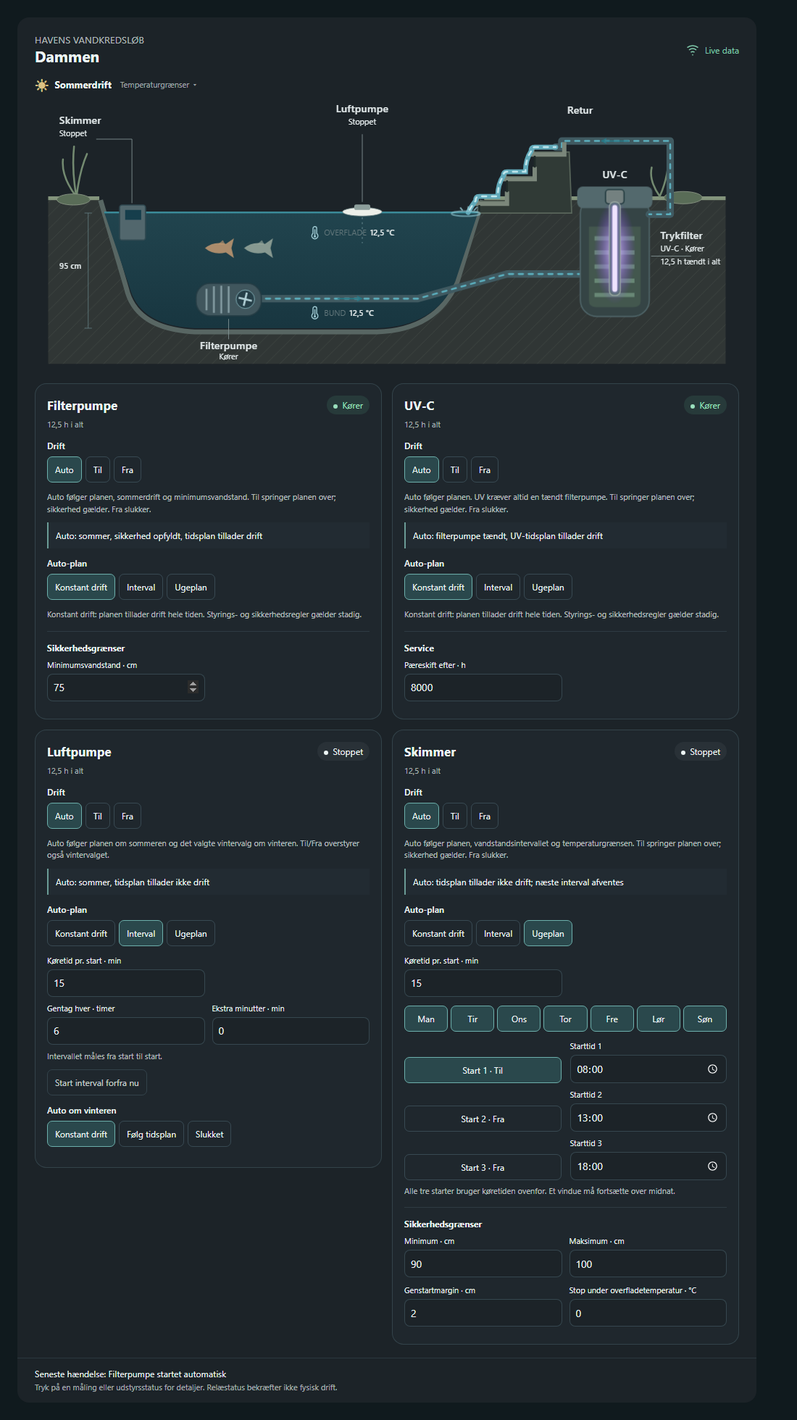
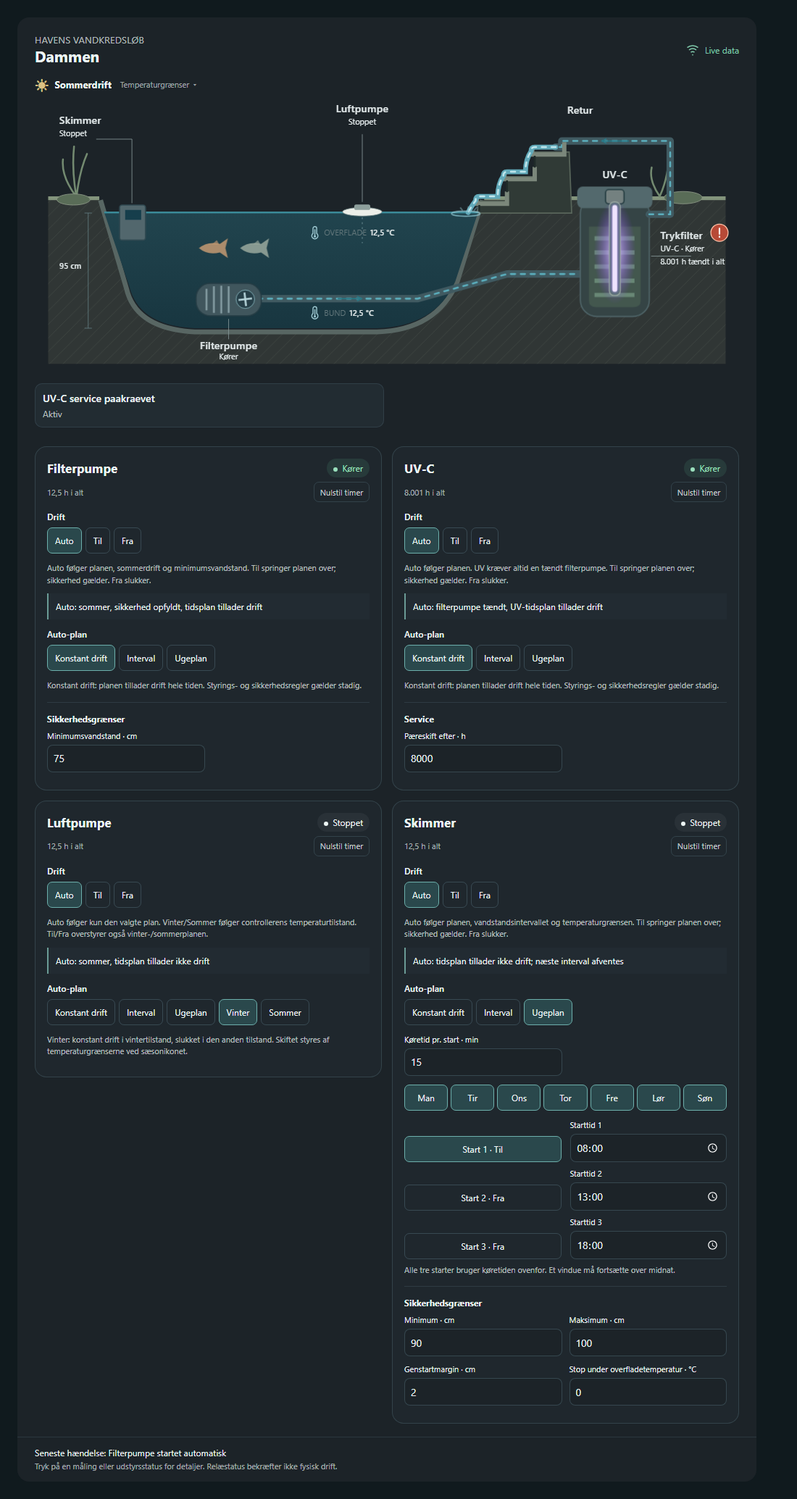
Add timer resets, seasonal air plans and device alarm badges

diff --git a/pond-flow-card.js b/pond-flow-card.js
@@ -15,7 +15,7 @@ function patchNode(current, next) {
   }
   if (current.nodeType === Node.ELEMENT_NODE) {
     for (const attr of [...current.attributes]) {
-      if (!next.hasAttribute(attr.name) && !(current.localName === 'details' && attr.name === 'open')) current.removeAttribute(attr.name);
+      if (!next.hasAttribute(attr.name) && !(['details','dialog'].includes(current.localName) && attr.name === 'open')) current.removeAttribute(attr.name);
     }
     for (const attr of next.attributes) {
       if (current.getAttribute(attr.name) !== attr.value) current.setAttribute(attr.name, attr.value);
@@ -200,8 +200,8 @@ class PondFlowCard extends HTMLElement {
   choiceButtons(key, caption) {
     const state=this.state(key),demo=this.config.demo===true;
     const isMode=key.endsWith('_mode');
-    const options=state?.attributes.options || (demo ? isMode ? ['Auto','Til','Fra'] : ['Konstant drift','Gentag med interval','Ugeplan'] : []);
-    const selected=state?.state || (demo ? isMode ? 'Auto' : key==='skimmer_plan' || key==='aerator_plan' ? 'Gentag med interval' : 'Konstant drift' : '');
+    const options=state?.attributes.options || (demo ? isMode ? ['Auto','Til','Fra'] : key==='aerator_plan' ? ['Konstant drift','Gentag med interval','Ugeplan','Vinter','Sommer'] : ['Konstant drift','Gentag med interval','Ugeplan'] : []);
+    const selected=state?.state || (demo ? isMode ? 'Auto' : key==='skimmer_plan' ? 'Gentag med interval' : key==='aerator_plan' ? 'Vinter' : 'Konstant drift' : '');
     const display=option=>({'Uden tidsplan':'Konstant drift','Gentag med interval':'Interval','Interval':'Interval','Til':'Til','Fra':'Fra'}[option] || option);
     return `<div class="choice"><span class="field-title">${esc(caption)}</span><div class="options">${options.map(option=>`<button type="button" data-key="${key}" data-option="${esc(option)}" aria-pressed="${selected===option}" ${demo || !this.usable(state) ? 'disabled' : ''}>${esc(display(option))}</button>`).join('') || '<small class="missing">Ikke tilgængelig på controlleren</small>'}</div></div>`;
   }
@@ -209,23 +209,26 @@ class PondFlowCard extends HTMLElement {
     const {id,name,key}=unit,demo=this.config.demo===true;
     const running=this.state(key+'_running');
     const status=demo ? id==='aer'?'Stoppet':'Kører' : !this.usable(running) ? 'Ukendt' : running.state==='on' ? 'Kører':'Stoppet';
-    const planKey=key+'_plan',plan=this.state(planKey)?.state || (demo ? ['skimmer','aer'].includes(id)?'Gentag med interval':'Konstant drift' : '');
+    const planKey=key+'_plan',plan=this.state(planKey)?.state || (demo ? id==='skimmer'?'Gentag med interval':id==='aer'?'Vinter':'Konstant drift' : '');
     const interval=['Gentag med interval','Interval'].includes(plan),week=plan==='Ugeplan';
     const number=(suffix,title,sample,unit='')=>this.inputField('number',`${name} tidsplan - ${suffix}`,title,`${id}_${slug(suffix)}`,sample,unit);
     const reason=this.named('sensor',`${name} aktuel styring`,id+'_reason').state;
     const hours=this.state(key+'_hours');
     const caption=demo?'2,5 h':this.usable(hours)?this.value(key+'_hours'):'—';
     const airWinter=this.named('select','Luftpumpe Auto - vinterstyring','aer_winter_policy');
-    const help=id==='pump'?'Auto følger planen, sommerdrift og minimumsvandstand.':id==='skimmer'?'Auto følger planen, vandstandsintervallet og temperaturgrænsen.':id==='uv'?'Auto følger planen. UV kræver altid en tændt filterpumpe.':'Auto følger planen om sommeren og det valgte vintervalg om vinteren.';
+    const reset=this.named('button',`Nulstil ${name} driftstimer`,id+'_reset_hours');
+    const help=id==='pump'?'Auto følger planen, sommerdrift og minimumsvandstand.':id==='skimmer'?'Auto følger planen, vandstandsintervallet og temperaturgrænsen.':id==='uv'?'Auto følger planen. UV kræver altid en tændt filterpumpe.':(this.state('aerator_plan')?.attributes.options?.includes('Vinter')?'Auto følger kun den valgte plan. Vinter/Sommer følger controllerens temperaturtilstand.':'Vinter-/sommerplan kræver ny controller-YAML; den tidligere vinterstyring vises nedenfor.');
     let safety='';
     if(id==='pump') safety=this.inputField('number','Filterpumpe stop under vandstand','Minimumsvandstand','critical_level',75,'cm');
     if(id==='skimmer') safety=this.inputField('number','Skimmer minimum vandstand','Minimum','skimmer_min',90,'cm')+this.inputField('number','Skimmer maksimum vandstand','Maksimum','skimmer_max',100,'cm')+this.inputField('number','Skimmer genstartmargin inden for vandstandsinterval','Genstartmargin','skimmer_margin',2,'cm')+this.inputField('number','Skimmer stop under overfladetemperatur','Stop under overfladetemperatur','skimmer_temp',0,'°C');
     if(id==='uv') safety=this.inputField('number','UV-C servicegraense','Pæreskift efter','uv_service_hours',8000,'h');
-    return `<section class="unit" data-section="unit-${id}" aria-label="${name} opsætning"><div class="unit-heading"><h3>${name}</h3><span class="run-state ${status==='Kører'?'on':''}">${status}</span></div><small class="runtime" data-info="${key}_hours">${esc(caption)} i alt</small>
-      ${this.choiceButtons(key+'_mode','Drift')}<p class="unit-help">${help} ${id==='aer'?'Til/Fra overstyrer også vintervalget.':'Til springer planen over; sikkerhed gælder. Fra slukker.'}</p>
+    return `<section class="unit" data-section="unit-${id}" aria-label="${name} opsætning"><div class="unit-heading"><h3>${name}</h3><span class="run-state ${status==='Kører'?'on':''}">${status}</span></div><div class="runtime-row"><small class="runtime" data-info="${key}_hours">${esc(caption)} i alt</small><button type="button" class="reset-hours" data-reset-hours="${esc(reset.id)}" data-unit-name="${name}" ${demo || !this.buttonUsable(reset.state)?'disabled':''}>Nulstil timer</button></div>
+      ${this.choiceButtons(key+'_mode','Drift')}<p class="unit-help">${help} ${id==='aer'?'Til/Fra overstyrer også vinter-/sommerplanen.':'Til springer planen over; sikkerhed gælder. Fra slukker.'}</p>
       ${reason ? `<p class="decision" data-entity="${esc(this.named('sensor',`${name} aktuel styring`,id+'_reason').id)}">${esc(reason.state)}</p>`:''}
       ${this.choiceButtons(planKey,'Auto-plan')}
-      ${plan && !interval && !week ? '<p class="plan-note">Konstant drift: planen tillader drift hele tiden. Styrings- og sikkerhedsregler gælder stadig.</p>':''}
+      ${id==='aer' && !this.state('aerator_plan')?.attributes.options?.includes('Vinter') && airWinter.state ? `<div class="choice legacy-winter"><span class="field-title">Tidligere vinterstyring</span><div class="options">${airWinter.state.attributes.options.map(option=>`<button type="button" data-direct-select="${esc(airWinter.id)}" data-value="${esc(option)}" aria-pressed="${option===airWinter.state.state}" ${!this.usable(airWinter.state)?'disabled':''}>${esc(option==='Foelg tidsplan'?'Følg tidsplan':option)}</button>`).join('')}</div><p class="plan-note">Upload den nye YAML for at få Vinter/Sommer direkte som Auto-plan.</p></div>`:''}
+      ${['Konstant drift','Uden tidsplan'].includes(plan) ? '<p class="plan-note">Konstant drift: planen tillader drift hele tiden. Styrings- og sikkerhedsregler gælder stadig.</p>':''}
+      ${['Vinter','Sommer'].includes(plan) ? `<p class="plan-note">${plan}: konstant drift i ${plan==='Vinter'?'vintertilstand':'sommertilstand'}, slukket i den anden tilstand. Skiftet styres af temperaturgrænserne ved sæsonikonet.</p>`:''}
       ${interval || week ? `<div class="fields">${number('Koeretid pr start','Køretid pr. start',15,'min')}</div>`:''}
       ${interval ? `<div class="fields">${number('Gentag hver - timer','Gentag hver',6,'timer')}${number('Gentag hver - ekstra minutter','Ekstra minutter',0,'min')}</div><p class="plan-note">Intervallet måles fra start til start.</p><button type="button" class="subtle" data-press="${esc(this.named('button',`${name} interval - start forfra nu`).id)}" ${demo || !this.buttonUsable(this.named('button',`${name} interval - start forfra nu`).state)?'disabled':''}>Start interval forfra nu</button>`:''}
       ${week ? `<div class="weekdays" aria-label="${name} ugedage">${[['Mandag','Man'],['Tirsdag','Tir'],['Onsdag','Ons'],['Torsdag','Tor'],['Fredag','Fre'],['Loerdag','Lør'],['Soendag','Søn']].map(([day,label])=>{
@@ -235,9 +238,25 @@ class PondFlowCard extends HTMLElement {
         const enabled=this.named('switch',`${name} ugeplan - start ${i} aktiv`);
         return `<div class="slot"><button type="button" data-switch="${esc(enabled.id)}" aria-pressed="${demo?i===1:enabled.state?.state==='on'}" ${demo || !this.usable(enabled.state)?'disabled':''}>Start ${i} · ${demo?i===1?'Til':'Fra':enabled.state?.state==='on'?'Til':'Fra'}</button>${this.inputField('text',`${name} ugeplan - start ${i} HH:MM`,`Starttid ${i}`,`${id}_start${i}`,['08:00','13:00','18:00'][i-1],'','time')}</div>`;
       }).join('')}</div><p class="plan-note">Alle tre starter bruger køretiden ovenfor. Et vindue må fortsætte over midnat.</p>`:''}
-      ${id==='aer' ? `<div class="choice"><span class="field-title">Auto om vinteren</span><div class="options">${(airWinter.state?.attributes.options || (demo?['Konstant drift','Foelg tidsplan','Slukket']:[])).map(option=>`<button type="button" data-direct-select="${esc(airWinter.id)}" data-value="${esc(option)}" aria-pressed="${option===(airWinter.state?.state || 'Konstant drift')}" ${demo || !this.usable(airWinter.state)?'disabled':''}>${esc(option==='Foelg tidsplan'?'Følg tidsplan':option)}</button>`).join('') || '<small>Vintervalget er ikke tilgængeligt på controlleren.</small>'}</div></div>`:''}
       ${safety?`<div class="safety"><h4>${id==='uv'?'Service':'Sikkerhedsgrænser'}</h4><div class="fields">${safety}</div></div>`:''}
     </section>`;
+  }
+  unitAlarms(id) {
+    // Shared alarms are identified as shared; they do not prove device failure.
+    const keys={pump:['low_water','level_fault','temp_fault','relay_fault','settings_fault','schedule_fault'],uv:['uv_service','low_water','level_fault','temp_fault','relay_fault','settings_fault','schedule_fault'],skimmer:['skimmer_locked','level_fault','temp_fault','relay_fault','settings_fault','schedule_fault'],aer:['temp_fault','relay_fault','settings_fault','schedule_fault']}[id] || [];
+    return keys.filter(key=>this.state(key)?.state==='on').map(key=>({key,label:labels[key]+(['temp_fault','relay_fault','settings_fault','schedule_fault'].includes(key)?' (fælles controlleralarm)':'')}));
+  }
+  alarmBadge(id,x,y) {
+    const alarms=this.unitAlarms(id);
+    if(!alarms.length) return '';
+    const name={pump:'Filterpumpe',uv:'UV-C',aer:'Luftpumpe',skimmer:'Skimmer'}[id];
+    return `<g class="diagram-alarm" data-alarm-unit="${id}" data-section="alarm-${id}" role="button" tabindex="0" aria-label="${name}: ${alarms.length} alarm${alarms.length>1?'er':''}. Klik for besked" transform="translate(${x} ${y})"><title>${name}: ${alarms.map(a=>esc(a.label)).join('; ')}</title><circle r="14"/><path d="M0 -7V2M0 6V7"/></g>`;
+  }
+  alarmDialog() {
+    const name={pump:'Filterpumpe',uv:'UV-C',aer:'Luftpumpe',skimmer:'Skimmer'}[this.alarmUnit] || 'Alarmer';
+    const alarms=this.unitAlarms(this.alarmUnit);
+    const service=this.state('uv_hours'),limit=this.named('number','UV-C servicegraense','uv_service_hours').state;
+    return `<dialog class="alarm-dialog" data-section="alarm-dialog" aria-label="${name} alarmer"><h3>${name}</h3>${alarms.length?`<ul>${alarms.map(a=>`<li>${esc(a.label)}${a.key==='uv_service' && this.usable(service)?`<p>UV har kørt ${esc(this.value('uv_hours'))}${this.usable(limit)?' og servicegrænsen er '+esc(limit.state)+' timer':''}. Kontrollér pæren. Efter udskiftning kan UV-timerne nulstilles i UV-området.</p>`:''}</li>`).join('')}</ul>`:'<p>Ingen aktuelle alarmer.</p>'}<p class="note">Fælles controlleralarmer vises ved relevante enheder. Ikonet er ikke en måling af fysisk udstyrssvigt.</p><button type="button" data-close-alarm>Luk</button></dialog>`;
   }
   climatePanel() {
     const demo=this.config.demo===true;
@@ -324,6 +343,7 @@ class PondFlowCard extends HTMLElement {
       .units{gap:14px;align-items:start;padding-top:8px;grid-template-columns:repeat(2,minmax(0,1fr))}.unit{border:1px solid #7196a540;background:#7396a40b;border-radius:16px;padding:16px;min-width:0}.unit-heading{display:flex;align-items:center;justify-content:space-between;gap:8px}.unit h3{font-size:17px;margin:0}.run-state{font-size:12px;white-space:nowrap;background:#87999b18;border-radius:20px;padding:5px 9px}.run-state.on{color:#9ae0bd;background:#4a927630}.run-state:before{content:'';display:inline-block;width:6px;height:6px;border-radius:50%;background:currentColor;margin-right:6px}.runtime{display:block;margin:6px 0 14px;font-size:11px;opacity:.65}.choice{margin:12px 0}.field-title{display:block;font-size:12px;font-weight:600;margin-bottom:7px}.units .options{justify-content:flex-start;gap:5px}.units button{font:inherit;font-size:12px;padding:8px 10px;min-height:36px}.units button[aria-pressed=true]{background:#438b8b55;border-color:#6db0ac}.units button:disabled,.field input:disabled{opacity:.45;cursor:default}.unit-help,.plan-note{font-size:11px;line-height:1.5;opacity:.72;margin:7px 0 10px}.decision{font-size:12px;line-height:1.5;padding:9px 10px;border-left:2px solid #6b9c96;background:#7396a40b;margin:10px 0}
       .fields{display:grid;grid-template-columns:repeat(2,minmax(0,1fr));gap:10px;margin:8px 0}.field{display:flex;flex-direction:column;gap:5px;min-width:0;font-size:11px}.field input{box-sizing:border-box;width:100%;min-width:0;max-width:100%;border:1px solid #7196a550;border-radius:8px;background:var(--card-background-color,#1c2328);color:inherit;font:inherit;font-size:14px;min-height:38px;padding:8px;color-scheme:dark}.field input:focus-visible,button:focus-visible,summary:focus-visible{outline:2px solid #7ecac2;outline-offset:2px}.missing{font-size:10px;opacity:.65}.weekdays{display:flex;gap:4px;flex-wrap:wrap;margin:12px 0}.weekdays button{flex:1;min-width:32px;padding:7px 4px}.slots{display:grid;gap:8px}.slot{display:grid;grid-template-columns:minmax(90px,1fr) minmax(0,1fr);gap:12px;align-items:end}.slot>.field{margin:0}.safety{border-top:1px solid #7196a530;margin-top:14px;padding-top:2px}.safety h4{font-size:12px;margin:12px 0 8px}.subtle{opacity:.8}
       @container(max-width:740px){.units{grid-template-columns:1fr}.season-panel{margin:0 14px}.unit{padding:14px}.fields{gap:8px}}@container(max-width:350px){.season-edit{display:none}.connection-label{max-width:120px}.fields{grid-template-columns:1fr}}
+      .runtime-row{display:flex;align-items:center;justify-content:space-between;gap:8px;margin:6px 0 12px}.runtime-row .runtime{margin:0}.units .reset-hours{font-size:11px;min-height:28px;padding:4px 8px;opacity:.8}.diagram-alarm{cursor:pointer}.diagram-alarm circle{fill:#b74a37;stroke:#ffc4aa;stroke-width:1.5}.diagram-alarm path{fill:none;stroke:white;stroke-width:2.5;stroke-linecap:round}.diagram-alarm:focus-visible circle{stroke:white;stroke-width:3}.alarm-dialog{max-width:min(440px,calc(100vw - 50px));box-sizing:border-box;padding:22px;border:1px solid #7196a570;border-radius:16px;background:var(--ha-card-background,#1c2328);color:var(--primary-text-color,#edf6f5);font:inherit}.alarm-dialog::backdrop{background:#0008}.alarm-dialog li{margin:12px 0;font-size:14px;line-height:1.5}.alarm-dialog li p{font-size:13px;opacity:.85}.alarm-dialog button{padding:9px 20px;border:1px solid #7196a570;border-radius:8px;background:transparent;color:inherit;font:inherit;cursor:pointer}
     </style>
     <ha-card>
       <header data-section="header"><div><small>HAVENS VANDKREDSLØB</small><h2>${esc(this.config.title || 'Dammen')}</h2></div><span class="connection" data-connection role="status"><svg viewBox="0 0 24 24" aria-hidden="true"><path d="M3 8a14 14 0 0 1 18 0M6 12a9 9 0 0 1 12 0M9 16a4 4 0 0 1 6 0"/><circle cx="12" cy="20" r="1"/></svg><span class="connection-label"></span></span></header>
@@ -407,13 +427,23 @@ class PondFlowCard extends HTMLElement {
 <path d="M115 363V${550+depth}M109 363H121M109 ${550+depth}H121" fill="none" stroke="#627d82"/><text x="104" y="453" data-info="water_level" text-anchor="end" font-size="16" font-weight="600">${val('water_level','48 cm')}</text>
 <path class="leader" d="M343 ${535+depth}V${568+depth}"/><text x="343" y="${584+depth}" text-anchor="middle" class="label">Filterpumpe</text><text x="343" y="${601+depth}" data-info="pump_running" text-anchor="middle" class="small">${esc(operating('pump_running'))}</text>
 
+${this.alarmBadge('skimmer',225,220)}${this.alarmBadge('aer',640,200)}${this.alarmBadge('pump',445,584+depth)}${this.alarmBadge('uv',1140,395)}
 </svg>
       ${[...binaryKeys].some(key => this.state(key) && this.state(key).state !== 'off') ? `<div class="equipment alarms" data-section="alarms" role="status">${[...binaryKeys].filter(key => this.state(key) && this.state(key).state !== 'off').map(key => `<button data-info="${key}" class="error"><strong>${esc(labels[key])}</strong><small>${['unknown','unavailable'].includes(this.state(key).state) ? 'Status utilgængelig' : 'Aktiv'}</small></button>`).join('')}</div>` : ''}
       <div class="controls units" data-section="controls">${[{id:'pump',name:'Filterpumpe',key:'pump'},{id:'uv',name:'UV-C',key:'uv'},{id:'aer',name:'Luftpumpe',key:'aerator'},{id:'skimmer',name:'Skimmer',key:'skimmer'}].map(unit=>this.unitPanel(unit)).join('')}</div>
       <div class="status" data-section="status">Seneste hændelse: ${val('last_event','Filterpumpe startet automatisk')}<br><span class="note">${demo ? 'Demo betjener ikke dit udstyr.' : 'Tryk på en måling eller udstyrsstatus for detaljer. Relæstatus bekræfter ikke fysisk drift.'}</span>${this.error ? `<div class="error" role="alert">${esc(this.error)}</div>` : ''}</div>
+      ${this.alarmDialog()}
     </ha-card>`;
     patchNode(this.shadowRoot,template.content);
     this.updateConnectionIndicator();
+    this.shadowRoot.querySelectorAll('[data-reset-hours]').forEach(button=>{button.onclick=()=>{if(!this.config.demo && window.confirm(`Nulstil driftstimer for ${button.dataset.unitName}? Den nuværende tæller slettes.`)) this.sendEntity(button.dataset.resetHours,'button');};});
+    this.shadowRoot.querySelectorAll('[data-alarm-unit]').forEach(button=>{
+      const open=()=>{this.alarmUnit=button.dataset.alarmUnit;this.render();this.shadowRoot.querySelector('.alarm-dialog').showModal();};
+      button.onclick=open;button.onkeydown=event=>{if(['Enter',' '].includes(event.key)){event.preventDefault();open();}};
+    });
+    const alarmDialog=this.shadowRoot.querySelector('.alarm-dialog');
+    this.shadowRoot.querySelector('[data-close-alarm]').onclick=()=>alarmDialog.close();
+    alarmDialog.onclose=()=>{this.alarmUnit=null;};
     this.shadowRoot.querySelectorAll('[data-control]').forEach(input=>{
       const state=this._hass?.states[input.dataset.control];
       if(!demo && this.usable(state) && !input._editing) input.value=state.state;

diff --git a/scripts/test-controller-rules.py b/scripts/test-controller-rules.py
@@ -23,13 +23,13 @@ def expression(name, **values):
     return bool(eval(text,{'__builtins__':{}},values))
 
 class ControllerRules(unittest.TestCase):
-    def test_air_winter_policy_and_manual_modes(self):
-        for winter,policy,scheduled,mode in itertools.product([False,True],range(3),[False,True],range(3)):
-            with self.subTest(winter=winter,policy=policy,scheduled=scheduled,mode=mode):
-                auto=expression('aer_auto',winter=winter,winter_policy=policy,aer_scheduled=scheduled)
-                result=expression('aer',am=mode,aer_auto=auto)
-                expected=(mode==1) or (mode==0 and (scheduled if not winter or policy==1 else policy==0))
-                self.assertEqual(result,expected)
+    def test_air_season_plans_and_manual_modes(self):
+        for winter,plan,window,mode in itertools.product([False,True],range(5),[False,True],range(3)):
+            scheduled=(winter if plan==3 else not winter if plan==4 else True if plan==0 else window)
+            auto=expression('aer_auto',aer_scheduled=scheduled)
+            result=expression('aer',am=mode,aer_auto=auto)
+            self.assertEqual(result,mode==1 or (mode==0 and scheduled))
+        self.assertIn('const bool allowed=plan==3 ? winter : !winter;',SOURCE)
     def test_filter_manual_on_never_bypasses_safety(self):
         for safe,mode,scheduled in itertools.product([False,True],range(3),[False,True]):
             result=expression('pump',safe=safe,pm=mode,pump_scheduled=scheduled)
@@ -52,12 +52,15 @@ class ControllerRules(unittest.TestCase):
                 block=re.search(r'    id: '+prefix+'_'+suffix+r'\n(.*?)(?=  - platform:|\Z)',SOURCE,re.S).group(1)
                 self.assertRegex(block,r'initial_value: '+value+r'\n')
             block=re.search(r'    id: '+prefix+r'_schedule\n(.*?)(?=  - platform:|\Z)',SOURCE,re.S).group(1)
-            self.assertIn('initial_option: "Gentag med interval"',block)
+            self.assertIn('initial_option: "'+('Gentag med interval' if prefix=='skimmer' else 'Vinter')+'"',block)
         for prefix in ['pump','skimmer','aer','uv']:
             self.assertIn(prefix+'_control_reason',ids)
             self.assertIn(prefix+'_auto_rule',ids)
         self.assertIn('sensor_timeout_seconds',ids)
-        self.assertIn('am==0 && (!winter || winter_policy==1)',SOURCE)
+        self.assertIn('id(aer_schedule)), am==0,',SOURCE)
+        self.assertNotIn('winter_policy',SOURCE)
+        self.assertIn('initial_option: "Vinter"',SOURCE)
+        self.assertNotIn('aer_season_policy',SOURCE)
         self.assertNotIn('level_margin',SOURCE)
         for line in SOURCE.splitlines():
             if re.match(r'\s*(key|password):',line):

diff --git a/esphome/FLOWS.md b/esphome/FLOWS.md
@@ -23,11 +23,19 @@ I Auto følger UV filterpumpen, eventuelt begrænset af UV's egen tidsplan. Kons
 
 ## Luftpumpe
 
-I Auto følger luftpumpen sin egen tidsplan om sommeren. Om vinteren følger den det synlige valg **Luftpumpe Auto - vinterstyring**: **Konstant drift** (standard), **Foelg tidsplan** eller **Slukket**. Den er ikke længere direkte koblet til filterpumpens stop/start.
+Auto følger udelukkende den valgte Auto-plan. Der er ikke længere et separat vintervalg eller en skjult vinteroverstyring.
 
-Det betyder eksempelvis, at lav vandstand eller manuelt filterstop om sommeren ikke i sig selv starter luftpumpen. Ved **Konstant drift** bruges tidsplanen kun om sommeren. Ved **Foelg tidsplan** bruges samme tidsplan i begge temperaturtilstande. Ved **Slukket** er Auto-vinterdrift slået fra. Manuel Til/Fra tilsidesætter vintervalget.
+| Auto-plan | Virkning |
+|---|---|
+| Konstant drift | Tilladt hele året, både sommer og vinter |
+| Gentag med interval | Følg køretid og startinterval hele året |
+| Ugeplan | Følg valgte dage, starter og køretid hele året |
+| Vinter | Konstant drift i vintertilstand, slukket i sommertilstand |
+| Sommer | Konstant drift i sommertilstand, slukket i vintertilstand |
 
-Standardens sommertidsplan er 15 minutter hver 6. time. Dette er en redigerbar eksempelplan, ikke en beregning af dammens iltbehov.
+Vinter/Sommer refererer til controllerens temperaturtilstand, ikke kalenderen. Til/Fra overstyrer planen. Vandstand eller filterstop starter ikke selv luftpumpen.
+
+Ved ny installation er luftpumpens plan Vinter. Gemte tidligere planvalg kan overleve firmwareopdatering. Efter opdatering skal du vælge **Auto → Vinter**, hvis pumpen kun skal køre om vinteren. Dens tidligere intervalfelter er bevaret, men har ingen virkning i Vinter-/Sommer-planen.
 
 ## Skimmer og dens egen genstartmargin
 
@@ -63,7 +71,7 @@ Eksempel: Gentag hver = 6 timer og 0 ekstra minutter, køretid = 15 minutter bet
 
 I ugeplan er start 1 aktiv som standard; start 2 og 3 er slået fra. Alle ugedage er valgt. Standardtiderne er 08:00, 13:00 og 18:00. Starter kan overlappe og giver så sammenhængende drift. Et vindue over midnat tilhører dagen, hvor det starter. Ved sommertidsskift følger planen lokalt klokkeslæt, så et sprunget tidspunkt springes over, og et gentaget tidspunkt kan give gentagen drift.
 
-Standard: Filterpumpe og UV Konstant drift; skimmer og luft Gentag med interval. Ugeplansfelter har ingen effekt, når interval er valgt, og intervalfelter har ingen effekt, når ugeplan er valgt. Luftpumpen ignorerer kun tidsplanen i Auto-vinterdrift, når vinterstyringen er Konstant drift eller Slukket. Ved Foelg tidsplan gælder den også om vinteren.
+Standard: Filterpumpe og UV Konstant drift; skimmer Gentag med interval; luft Vinter. Ugeplansfelter har ingen effekt, når interval er valgt, og intervalfelter har ingen effekt, når ugeplan er valgt. Luftpumpen følger altid sit valgte planvalg, inklusive Vinter/Sommer som sæsonplaner.
 
 ## Auto / Til / Fra
 
@@ -88,7 +96,7 @@ Styringen kører hvert 5. sekund efter 15 sekunders opstart. Niveaumålingen fil
 
 Automatik, sikkerhedsregler, timetællere og intervalplaner kører uden Wi-Fi, Home Assistant eller internet. Webinterfacets assets er nu valgt som lokale, og indstillinger er grupperet efter udgang. Browseren skal stadig have en netværksforbindelse til selve enheden.
 
-Ugeplan kræver gyldigt klokkeslæt. SNTP eller Home Assistant kan sætte uret; det fortsætter ved netudfald. Efter fuldt strømsvigt uden efterfølgende tidssynkronisering kan automatiske ugeplaner ikke køre. Urfejl vises for ugeplaner, der aktuelt skal bruges i Auto. Vinterluft med Konstant drift kræver ikke klokkeslæt. Vintervalget Foelg tidsplan kræver gyldigt ur, hvis Ugeplan er valgt. Faste ugedage/klokkeslæt efter strømsvigt helt uden net kræver et batteribackup-ur og en udvidelse af YAML.
+Ugeplan kræver gyldigt klokkeslæt. SNTP eller Home Assistant kan sætte uret; det fortsætter ved netudfald. Efter fuldt strømsvigt uden efterfølgende tidssynkronisering kan automatiske ugeplaner ikke køre. Urfejl vises for ugeplaner, der aktuelt skal bruges i Auto. Vinter/Sommer-planer og Konstant drift kræver ikke klokkeslæt. Vælges Ugeplan, kræves gyldigt ur.
 
 Fra den oprindelige fil er døgnoversigter, daglige min/max, højvandsalarm og særskilt frostalarm fortsat ikke med i v2. Hændelsesloggen er kort og gemmes ikke over genstart.
 
@@ -111,8 +119,16 @@ Hver udgang viser:
 
 **Auto** er ikke en ekstra tidsplan: det betyder at følge udgangens styringsregler **og** den valgte tidsplan. **Konstant drift** betyder ingen tidsbegrænsning; sikkerheds- og øvrige styringsregler gælder stadig. **Til** springer tidsplanen over, men ikke filter/skimmer/UV-sikkerheden. **Fra** slukker udgangen. De eksisterende select-værdier er bevaret for kompatibilitet.
 
-Skimmerens 15 minutter hver 6. time kommer udelukkende fra dens synlige standardvalg **Gentag med interval**, **Koeretid pr start = 15**, **Gentag hver - timer = 6** og **ekstra minutter = 0**. Der er ingen ekstra skjult startfunktion. Det samme gælder luftpumpens sommerplan. Filter og UV starter fortsat med Konstant drift.
+Skimmerens 15 minutter hver 6. time kommer udelukkende fra dens synlige standardvalg **Gentag med interval**, **Koeretid pr start = 15**, **Gentag hver - timer = 6** og **ekstra minutter = 0**. Der er ingen ekstra skjult startfunktion. Luftpumpen bruger nu standardplanen Vinter; tidligere intervalværdier bruges kun, hvis Interval vælges. Filter og UV starter fortsat med Konstant drift.
 
 Temperaturgrænserne er fortsat fire selvstændige felter. Vandstandsreference, filterminimum, skimmerminimum/-maksimum, skimmermargin og skimmertemperatur er konfigurerbare. Sensor-timeout er nu også et synligt sikkerhedsfelt: standard 60 sekunder, område 15–600 sekunder. Måleområdefilteret for A02YYUW er fast hardwarevalidering. Sikkerhedsfunktionerne kan ikke deaktiveres med manuel Til.
 
 Navnet på det tidligere planvalg Uden tidsplan er nu **Konstant drift**, så det er en eksplicit driftsplan. Det betyder tilladelse hele tiden, stadig underlagt styrings- og sikkerhedsregler. Auto har ingen selvstændig startfunktion: skimmerens starter kommer fra dens valgte plan, og luftpumpens vinterdrift kommer fra dens eksplicitte vintervalg. Tidligere HA-automationer, som vælger den bogstavelige option Uden tidsplan, skal bruge Konstant drift i stedet. Controllerens og HA-kortets entity-ID'er er ikke ændret.
+
+## Opdatering 0.7.1: timenulstilling, sæsonplaner og diagramalarmer
+
+Kortet har nu en Nulstil timer-knap ved hver udgang. Der kræves bekræftelse, før den tilhørende button-entitet trykkes. De fire tællere er uafhængige. Nulstilling af UV-timer fjerner UV-servicealarmen ved næste styringsrunde. Timetallet i HA kan først vise ændringen ved næste sensorpublicering (op til cirka 30 sekunder).
+
+Luftpumpens gamle Luftpumpe Auto - vinterstyring er fjernet fra den nye firmware. Vinter og Sommer findes direkte i Luftpumpe tidsplan - type. De første tre planvalg og alle eksisterende driftstime-/relæ-ID'er er bevaret. Ingen counter nulstilles af firmwareændringen. Upload denne YAML før Vinter/Sommer kan vælges fra kortet.
+
+Aktive alarmer markeres ved relevante enheder på tegningen. UV-service vises kun ved UV, og skimmerspærring ved skimmeren. Vandstands-/sensor-/relæ-/indstillings-/urfejl kan påvirke flere enheder. Fælles alarmer er mærket som fælles i tekstbeskeden; de påstår ikke et fysisk svigt i den enkelte enhed. Tryk på ikonet for forklaringen.

diff --git a/docs/card-controls.md b/docs/card-controls.md
@@ -1,4 +1,4 @@
-# Betjening i Pond Flow Card 0.7.0
+# Betjening i Pond Flow Card 0.7.1
 
 ## Hvert område svarer til én controllerudgang
 
@@ -7,7 +7,7 @@
 - **Interval**: køretid pr. start, timer og ekstra minutter mellem starter; en knap kan starte intervalfasen forfra.
 - **Ugeplan**: syv ugedagsknapper, tre individuelle startaktiveringer og tre HH:MM-felter. Køretiden er fælles for udgangens tre starter, som i controlleren. Der er ingen separat pr.-start-varighed i den nuværende firmware.
 - **Sikkerhed/service**: filterminimum, skimmerens min./maks./margin/temperatur og UV-servicegrænse står ved deres enheder.
-- **Luftpumpens vintervalg**: Konstant drift, Følg tidsplan eller Slukket.
+- **Luftpumpens sæsonplaner**: Vinter eller Sommer vælges direkte som Auto-plan. Konstant drift dækker begge. Der er ikke et ekstra sæsonfilter. Dette kræver controller-YAML til 0.7.1.
 
 Sæsonikonet åbner fire temperaturgrænser plus fælles sensorhøjde og sensor-timeout. Det er ikke en manuel tvangsskiftning mellem sommer og vinter.
 
@@ -34,3 +34,9 @@ Live betyder tilgængelige controller-målinger og last_reported inden for to mi
 ## Verifikation
 
 Browserregressionerne dækker de eksisterende animationer, mobilbredde og servicepayloads. En separat suite bruger navnene og standardopsætningen fra esphome/pond-controller-v2.yaml og kontrollerer alle fire enheders drift, planer, køretider, ugedage, alle tre starter, vintervalg, sikkerhedsfelter, indtastningsbevarelse, resetknapper og forbindelsestilstande. Kør npm run test:browser. Testene benytter eksempeldata og ændrer ikke en rigtig HA-installation.
+
+## Timer og alarmikoner
+
+Nulstil timer findes ved hver enhed. Bekræft dialogen for kun at nulstille denne enheds tæller; afvisning sender ingen service. Det bruger button.press og kræver ingen ny firmware i sig selv. Efter et UV-pæreskift nulstilles UV-timerne; det fjerner servicealarmen. Værdien i HA følger næste opdatering fra controlleren.
+
+Alarmikoner er kun synlige ved aktive alarm-entiteter (on). UV-service vises ved UV; lavt vand ved filter og UV; skimmerspærring ved skimmer. Fælles relæ-/indstillings-/sensor-/urfejl kan markeres ved flere enheder. Popupteksten angiver fælles controlleralarmer særskilt, fordi den nuværende firmware ikke altid kan henføre en sådan fejl til én udgang. Ingen nye fysiske fejlmålinger opfindes. Ikoner understøtter klik, Enter og mellemrum. En åben besked opdateres ved nye HA-data.

diff --git a/esphome/README.md b/esphome/README.md
@@ -36,3 +36,7 @@ Git-commits gemmer projektets stadier, så tidligere versioner kan ses og gendan
 ESPHome viser nu Auto-forklaringer og aktuel styringsårsag for hver udgang, grupperer temperatur/sikkerhed og udstiller luftpumpens vinterstyring som et valg. Sensor-timeout kan indstilles. Eksisterende relæ-, mode- og tidsplan-ID'er samt standardplaner er bevaret. HA-kortet er uændret i denne opdatering. Se FLOWS.md for valg og grænser.
 
 Kontrol af denne opdatering: ESPHome 2026.10.1-konfigurationsvalidering og C++-kildegenerering bestod. Fem regressionstests kontrollerer relæregler, vintervalg, manuel styring, sikkerhed og synlige standardplaner. Fuld firmwarekompilering og hardwaretest er ikke udført for denne opdatering. Testene kan køres med python scripts/test-controller-rules.py fra repositoryets rod.
+
+## Controlleropdatering til kort 0.7.1
+
+Luftpumpen har nu Vinter/Sommer direkte som Auto-plan i stedet for det særskilte vintervalg. Dette kræver ny firmwareupload. For kun vinterdrift: vælg Auto og derefter Vinter. Gemte planvalg kan overleve uploaden; det nye standardvalg erstatter ikke nødvendigvis det gamle. Konstant drift betyder hele året. Driftstællere og deres nulstillingsknapper er bevaret.

diff --git a/README.md b/README.md
@@ -1,5 +1,12 @@
 # Pond Flow Card
 
+## Version 0.7.1 – timenulstilling, sæsonplan og alarmikoner
+
+Hver enhed har nu **Nulstil timer** med bekræftelse. Aktive alarmer giver et klikbart ikon ved den relevante enhed i diagrammet; en tekstbesked viser alarmen og eventuel UV-serviceinformation. Fælles controlleralarmer er mærket som fælles.
+
+Luftpumpens Auto-plan har nu **Vinter** og **Sommer** ud over Konstant drift, Interval og Ugeplan. Vinter betyder konstant drift i vintertilstand og slukket i sommertilstand; Sommer virker omvendt. Konstant drift dækker begge. Det kræver upload af den opdaterede [controller-YAML](esphome/pond-controller-v2.yaml). Vælg derefter **Auto → Vinter** for den ønskede vinterdrift. Kortet viser den gamle vinterstyring på ældre firmware, men kan ikke tilføje sæsonplanen uden firmwareopdateringen. Tællerne bevares.
+
+
 ## Version 0.7.0 – betjening samlet ved hver enhed
 
 Diagrammet viser målingerne uden de tidligere ekstra målefelter. Skimmerens undertitel viser kun status. Sommer/vinter vises med sol/sne tæt ved diagrammet; klik åbner controllerens temperaturgrænser. Det ændrer grænserne, ikke et manuelt sæsonvalg.
